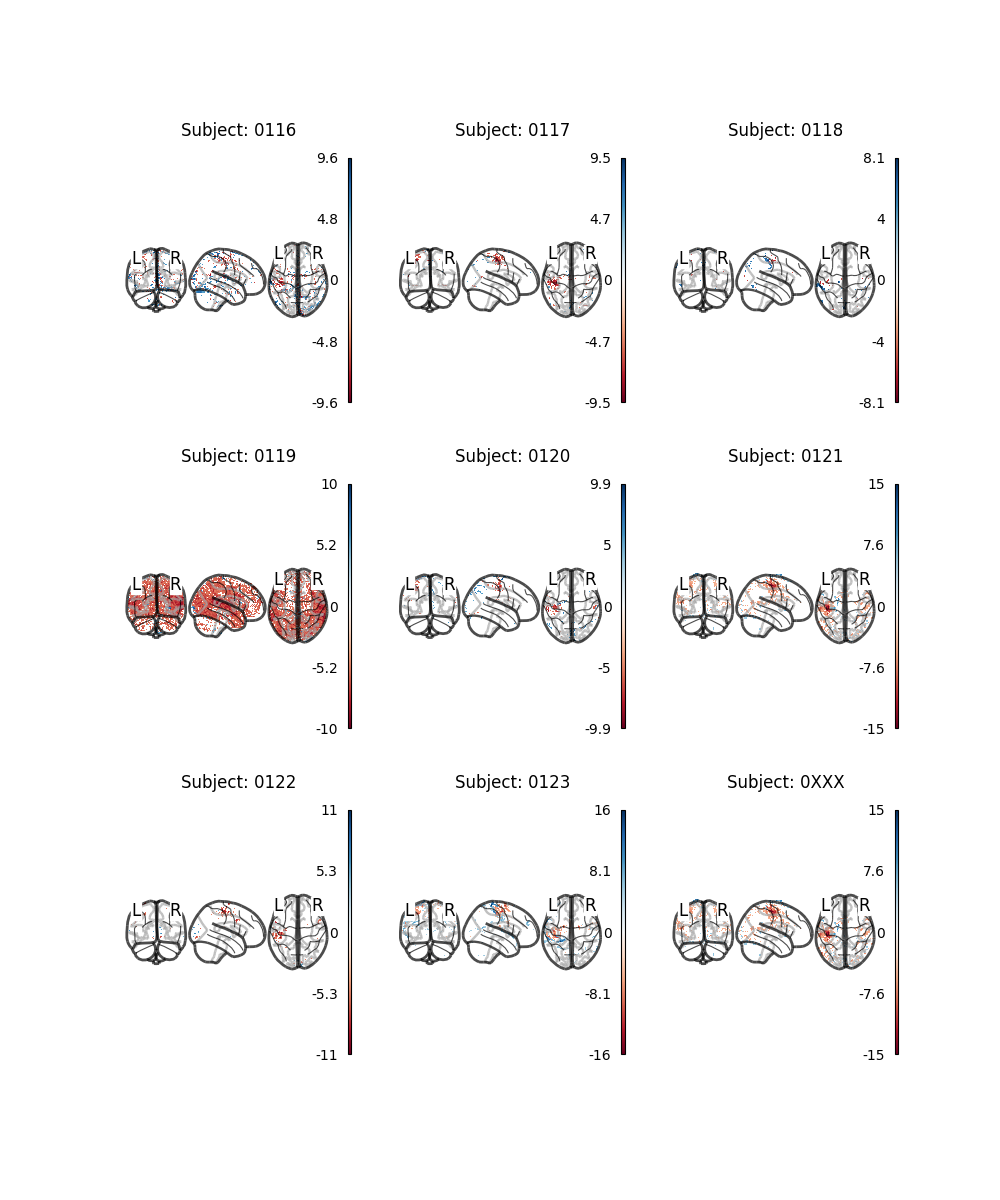
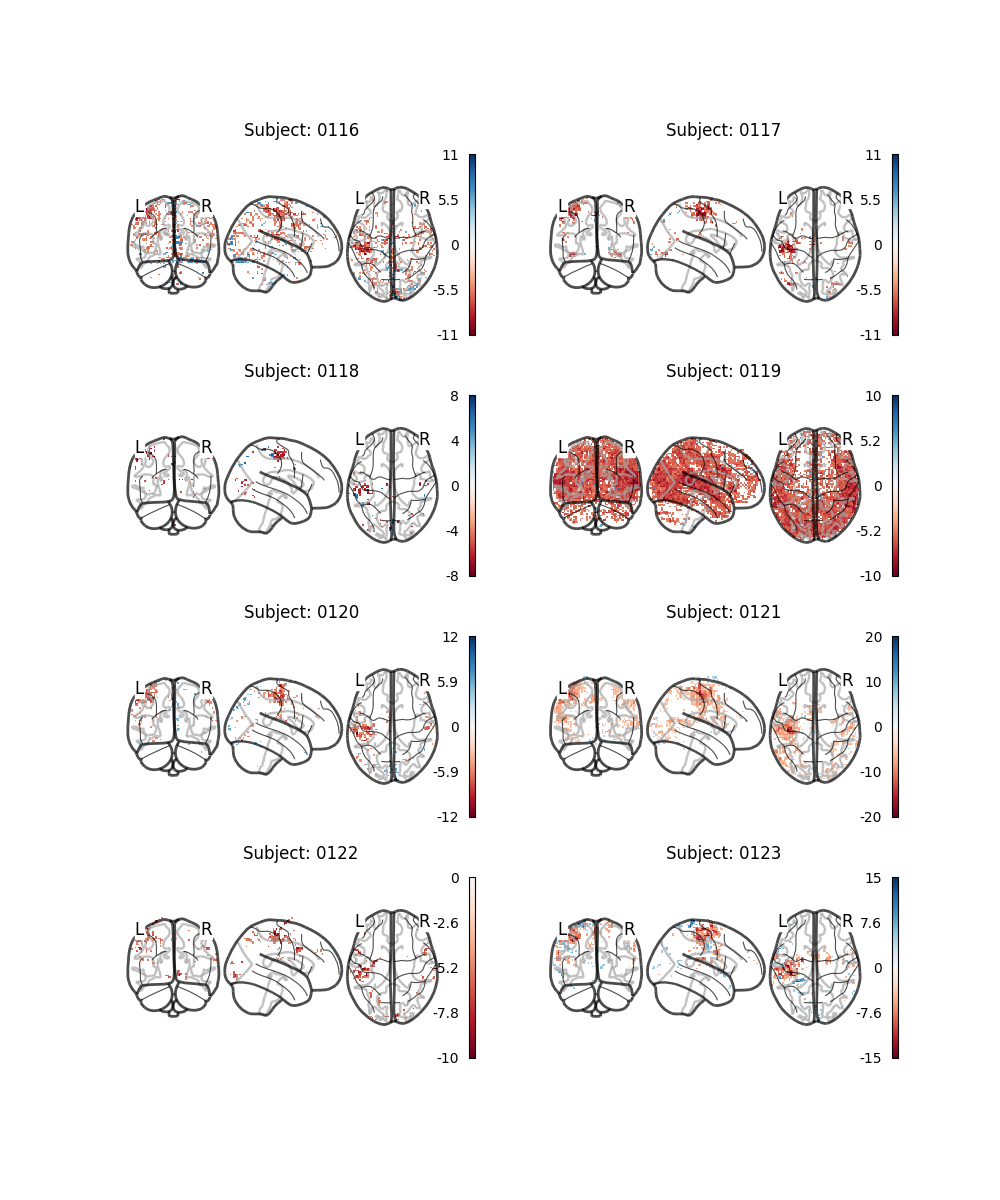
working versions 06-11-2023

diff --git a/src/first_level.py b/src/first_level.py
@@ -84,7 +84,7 @@ def add_buttonpress_events(events_dfs):
                 new_trial_type = "button_press"
 
                 # define new row
-                new_row = {"onset": new_onset, "duration": 0.5, "trial_type": "button_press", "RT": 0}
+                new_row = {"onset": new_onset, "duration": 0.2, "trial_type": "button_press", "RT": 0}
                 
                 # append new row to df
                 df = pd.concat([df, pd.DataFrame([new_row])], ignore_index=True)
@@ -168,7 +168,7 @@ def first_level_fit(fprep_f_paths, event_paths, confounds_paths, mask_paths, sav
     # create first lvl model 
     first_level_mdl = FirstLevelModel(
         t_r=TR,
-        slice_time_ref=0.5, # default val, ask Mikkel as notebook 13 has it set to 0.5 
+        slice_time_ref=0, # default val, ask Mikkel as notebook 13 has it set to 0.5 
         hrf_model="glover", 
         mask_img = mask_image, 
         noise_model="ar1", # We use the ar1 noise model as it assumes time-series data. See https://nilearn.github.io/dev/auto_examples/04_glm_first_level/plot_first_level_details.html

diff --git a/src/sanity_check.py b/src/sanity_check.py
@@ -25,7 +25,6 @@ def plot_contrasts(subject, flm, ax, contrast = "button_press"):
     contrast = flm.compute_contrast(contrast, output_type = "z_score")
 
     # make bonferroni correction
-    
     contrast, threshold = threshold_stats_img(
             contrast, 
             alpha=0.05, 

diff --git a/src/second_level.py b/src/second_level.py
@@ -1,0 +1,4 @@
+'''
+Script to perform second lvl analysis
+'''
+
